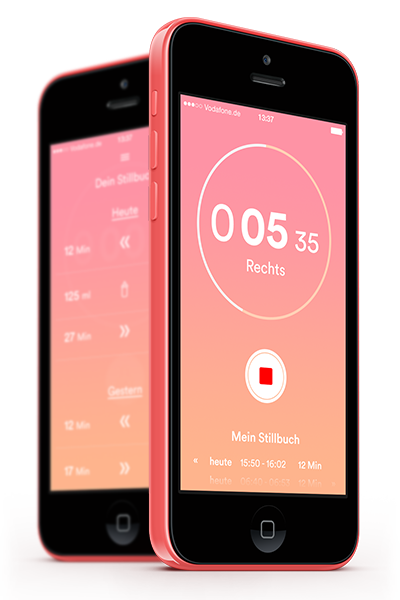
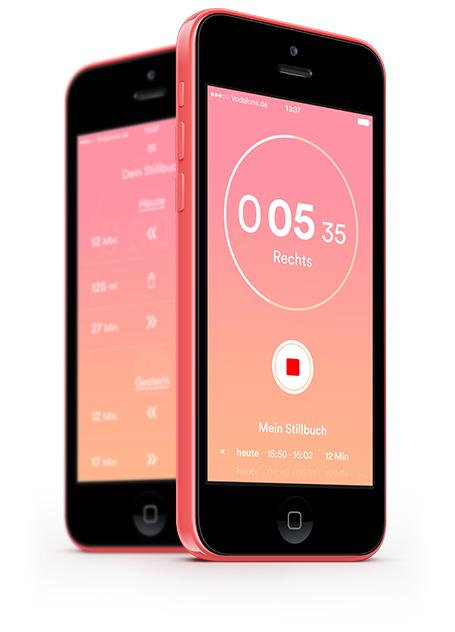
added other hero images

diff --git a/css/main.scss b/css/main.scss
@@ -17,7 +17,23 @@ body {
 
   i#main-image {
     &.default {
-      @include icon("/images/hero-default", "png", 400px, 600px);
+      @include icon("/images/hero-default", "png", 455px, 632px);
+    }
+
+    &.clock {
+      @include icon("/images/hero-clock", "png", 455px, 632px);
+    }
+
+    &.history {
+      @include icon("/images/hero-history", "png", 455px, 632px);
+    }
+
+    &.bottle {
+      @include icon("/images/hero-bottle", "png", 455px, 632px);
+    }
+
+    &.recommended {
+      @include icon("/images/hero-recommended", "png", 455px, 632px);
     }
   }
 
